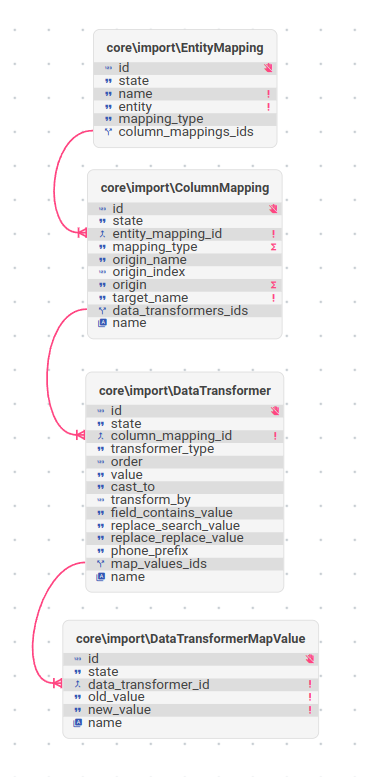
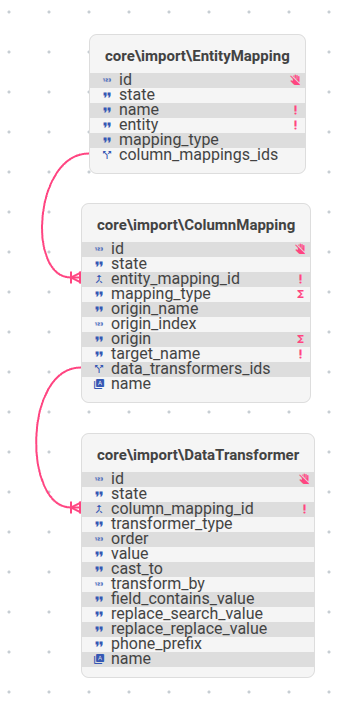
remove doc about not existing MapValue

diff --git a/docs/architecture-concepts/model-import.md b/docs/architecture-concepts/model-import.md
@@ -74,8 +74,6 @@ Using the **phone** transformer with a configured prefix of `32` (Belgium):
     Sets `true` if the value contains a specific string.
   - **`field-does-not-contain`**  
     Sets `true` if the value does not contain a specific string.
-  - **`map-value`**  
-    Replaces a value with another configured value.
   - **`replace`**  
     Substitutes a word/character with another specified word/character.
   - **`trim`**  
